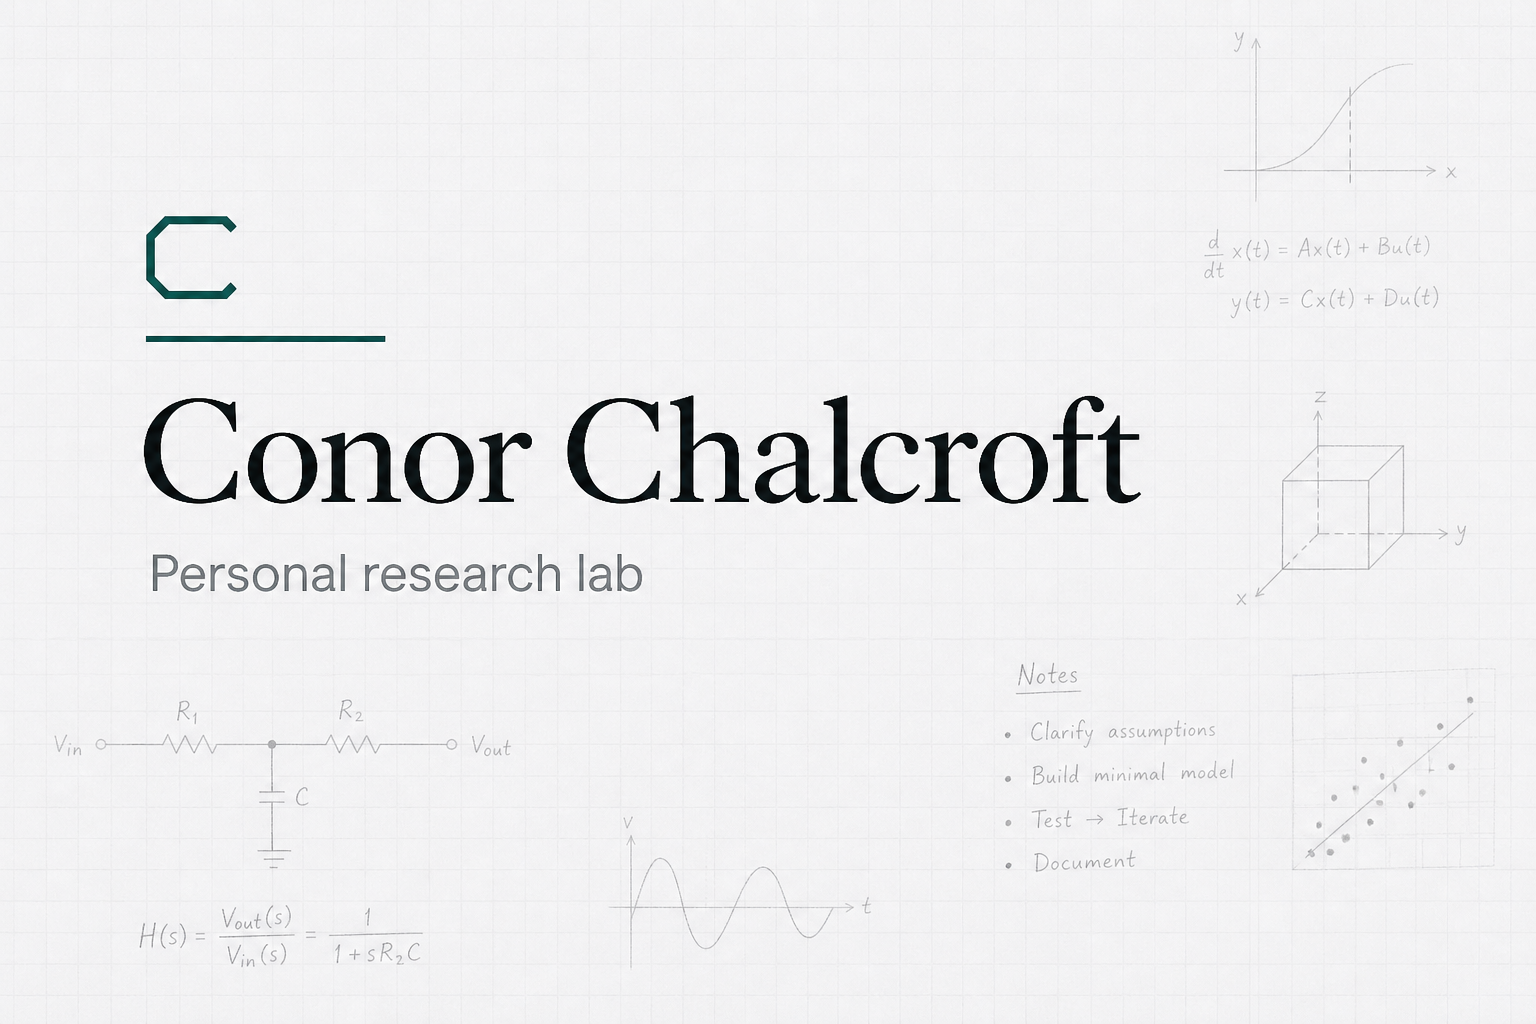
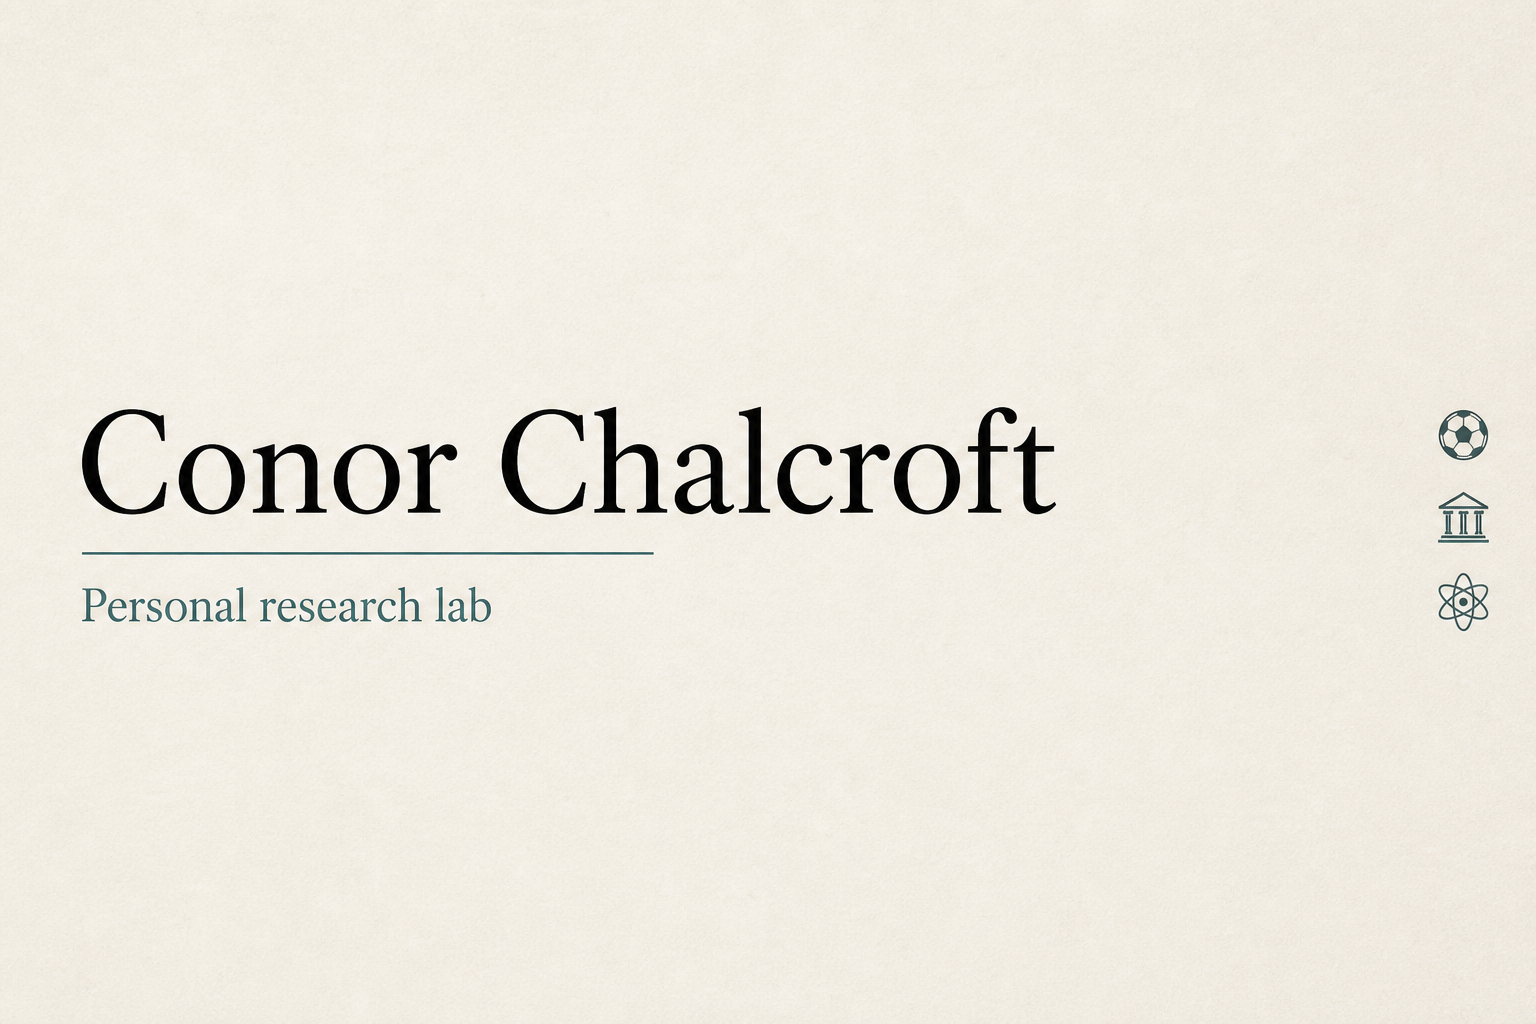
Update social preview to the chosen I1 design.
Replace the busy notebook collage with a quieter brand-led card and align Open Graph image dimensions.

diff --git a/src/app/layout.tsx b/src/app/layout.tsx
@@ -40,8 +40,8 @@ export const metadata: Metadata = {
     images: [
       {
         url: "/og.png",
-        width: 1376,
-        height: 768,
+        width: 1536,
+        height: 1024,
         alt: `${site.name} — personal research lab`,
       },
     ],
